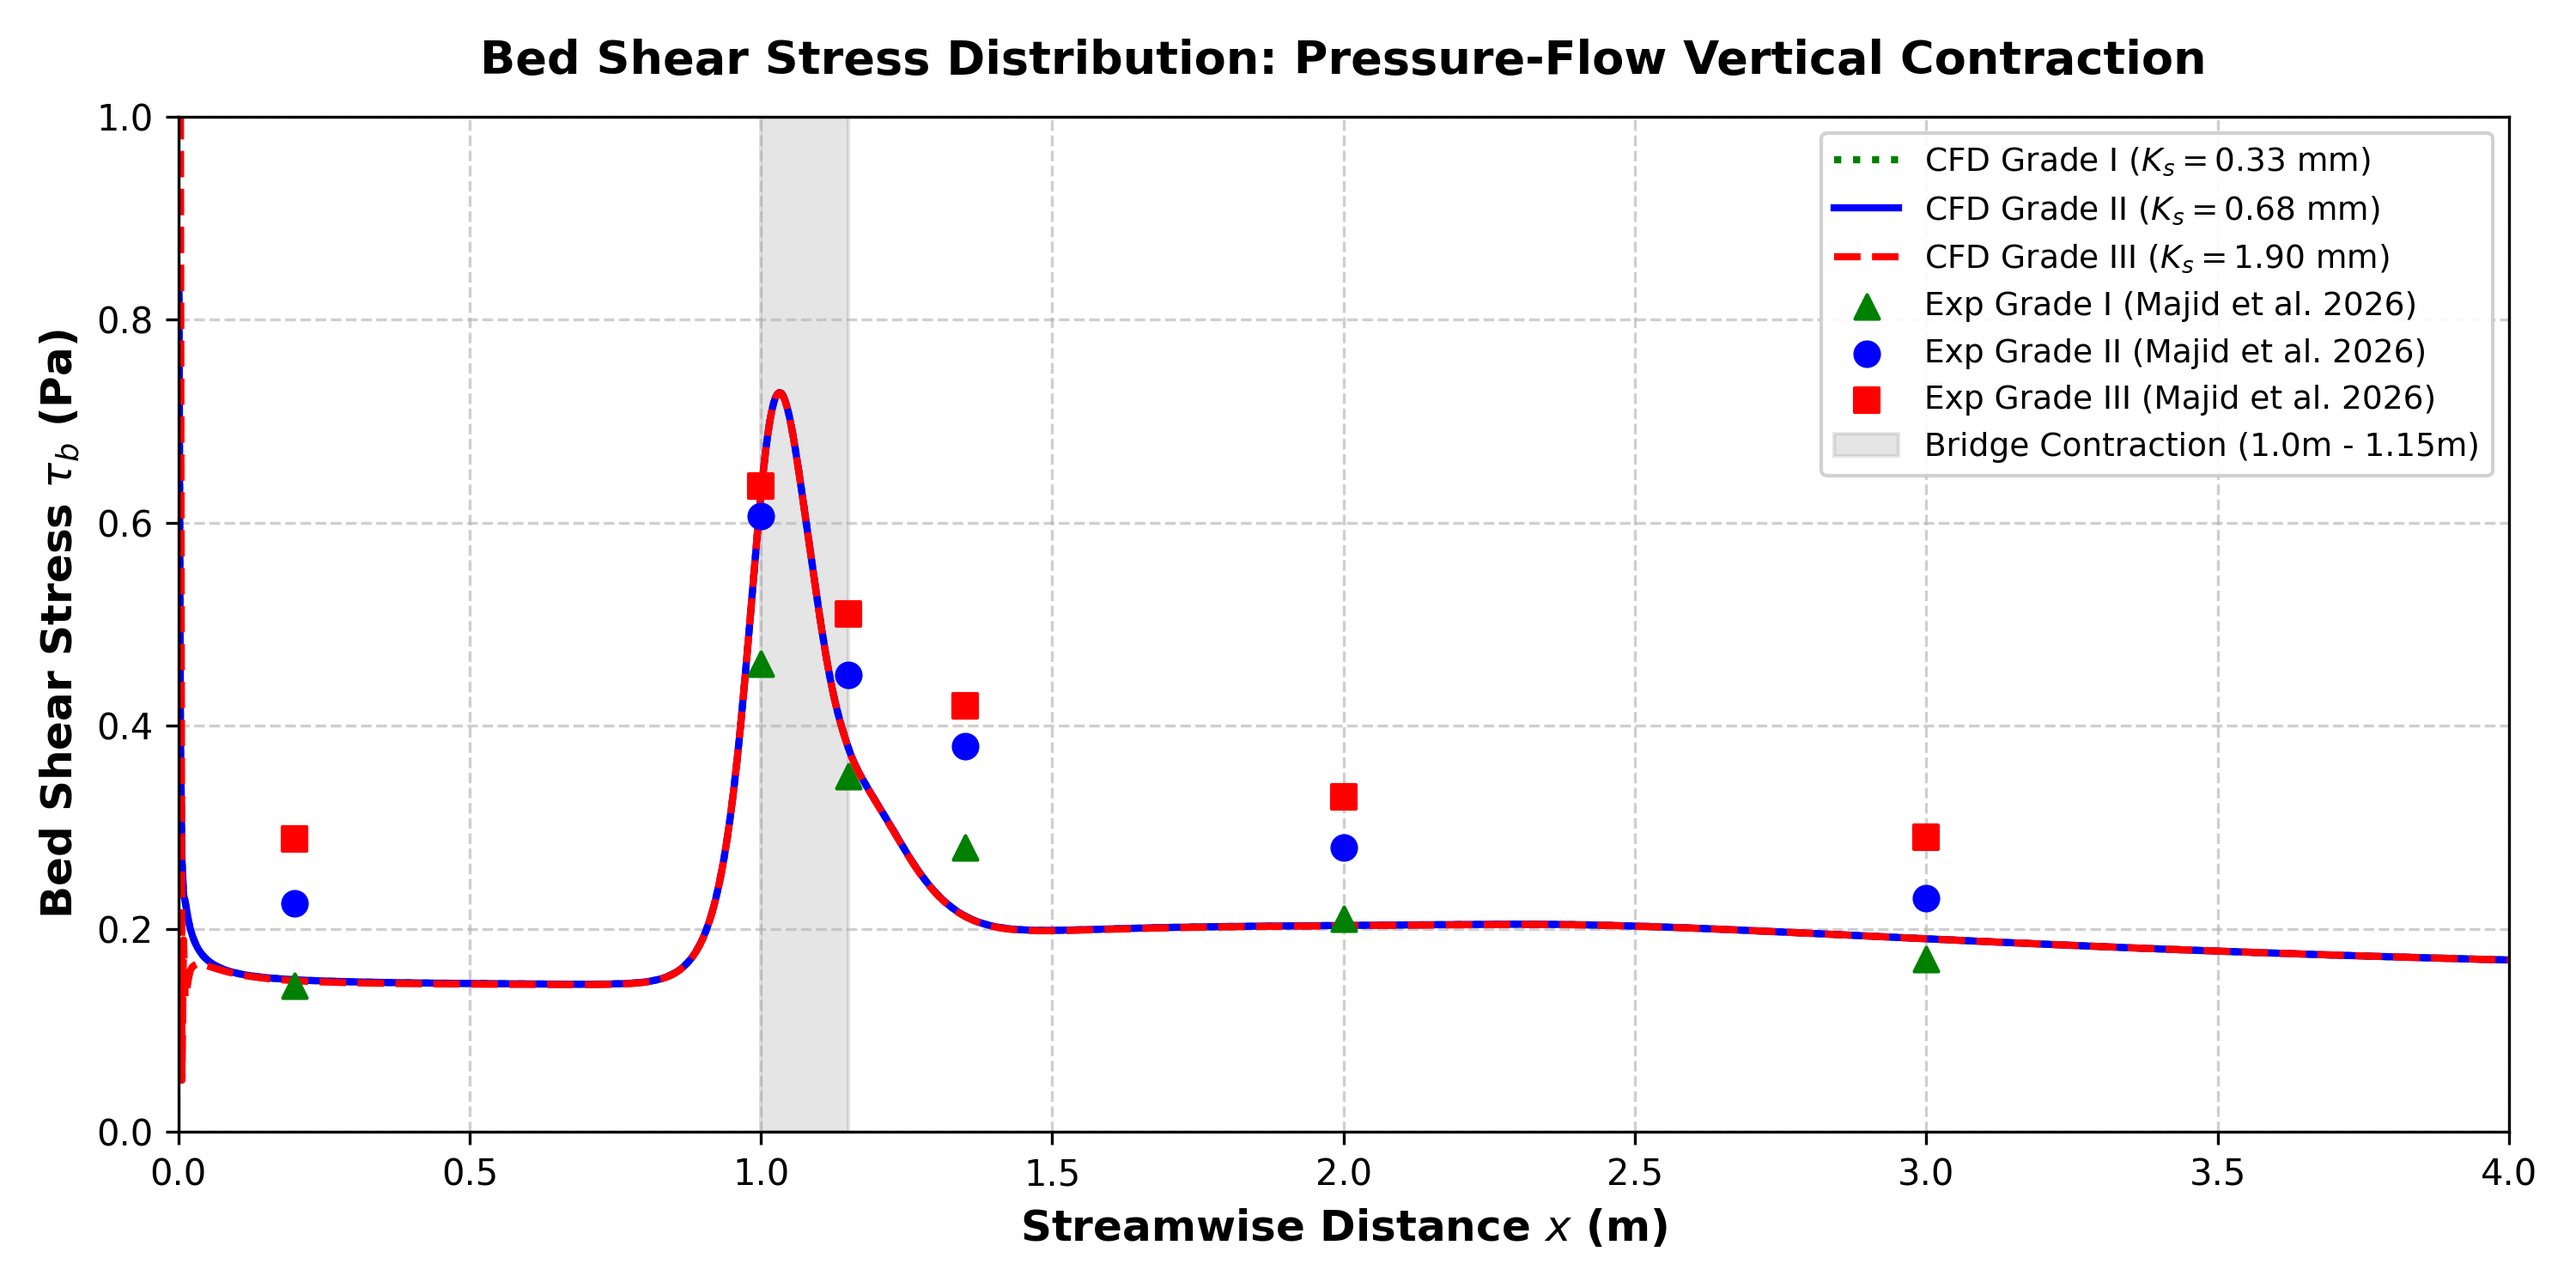
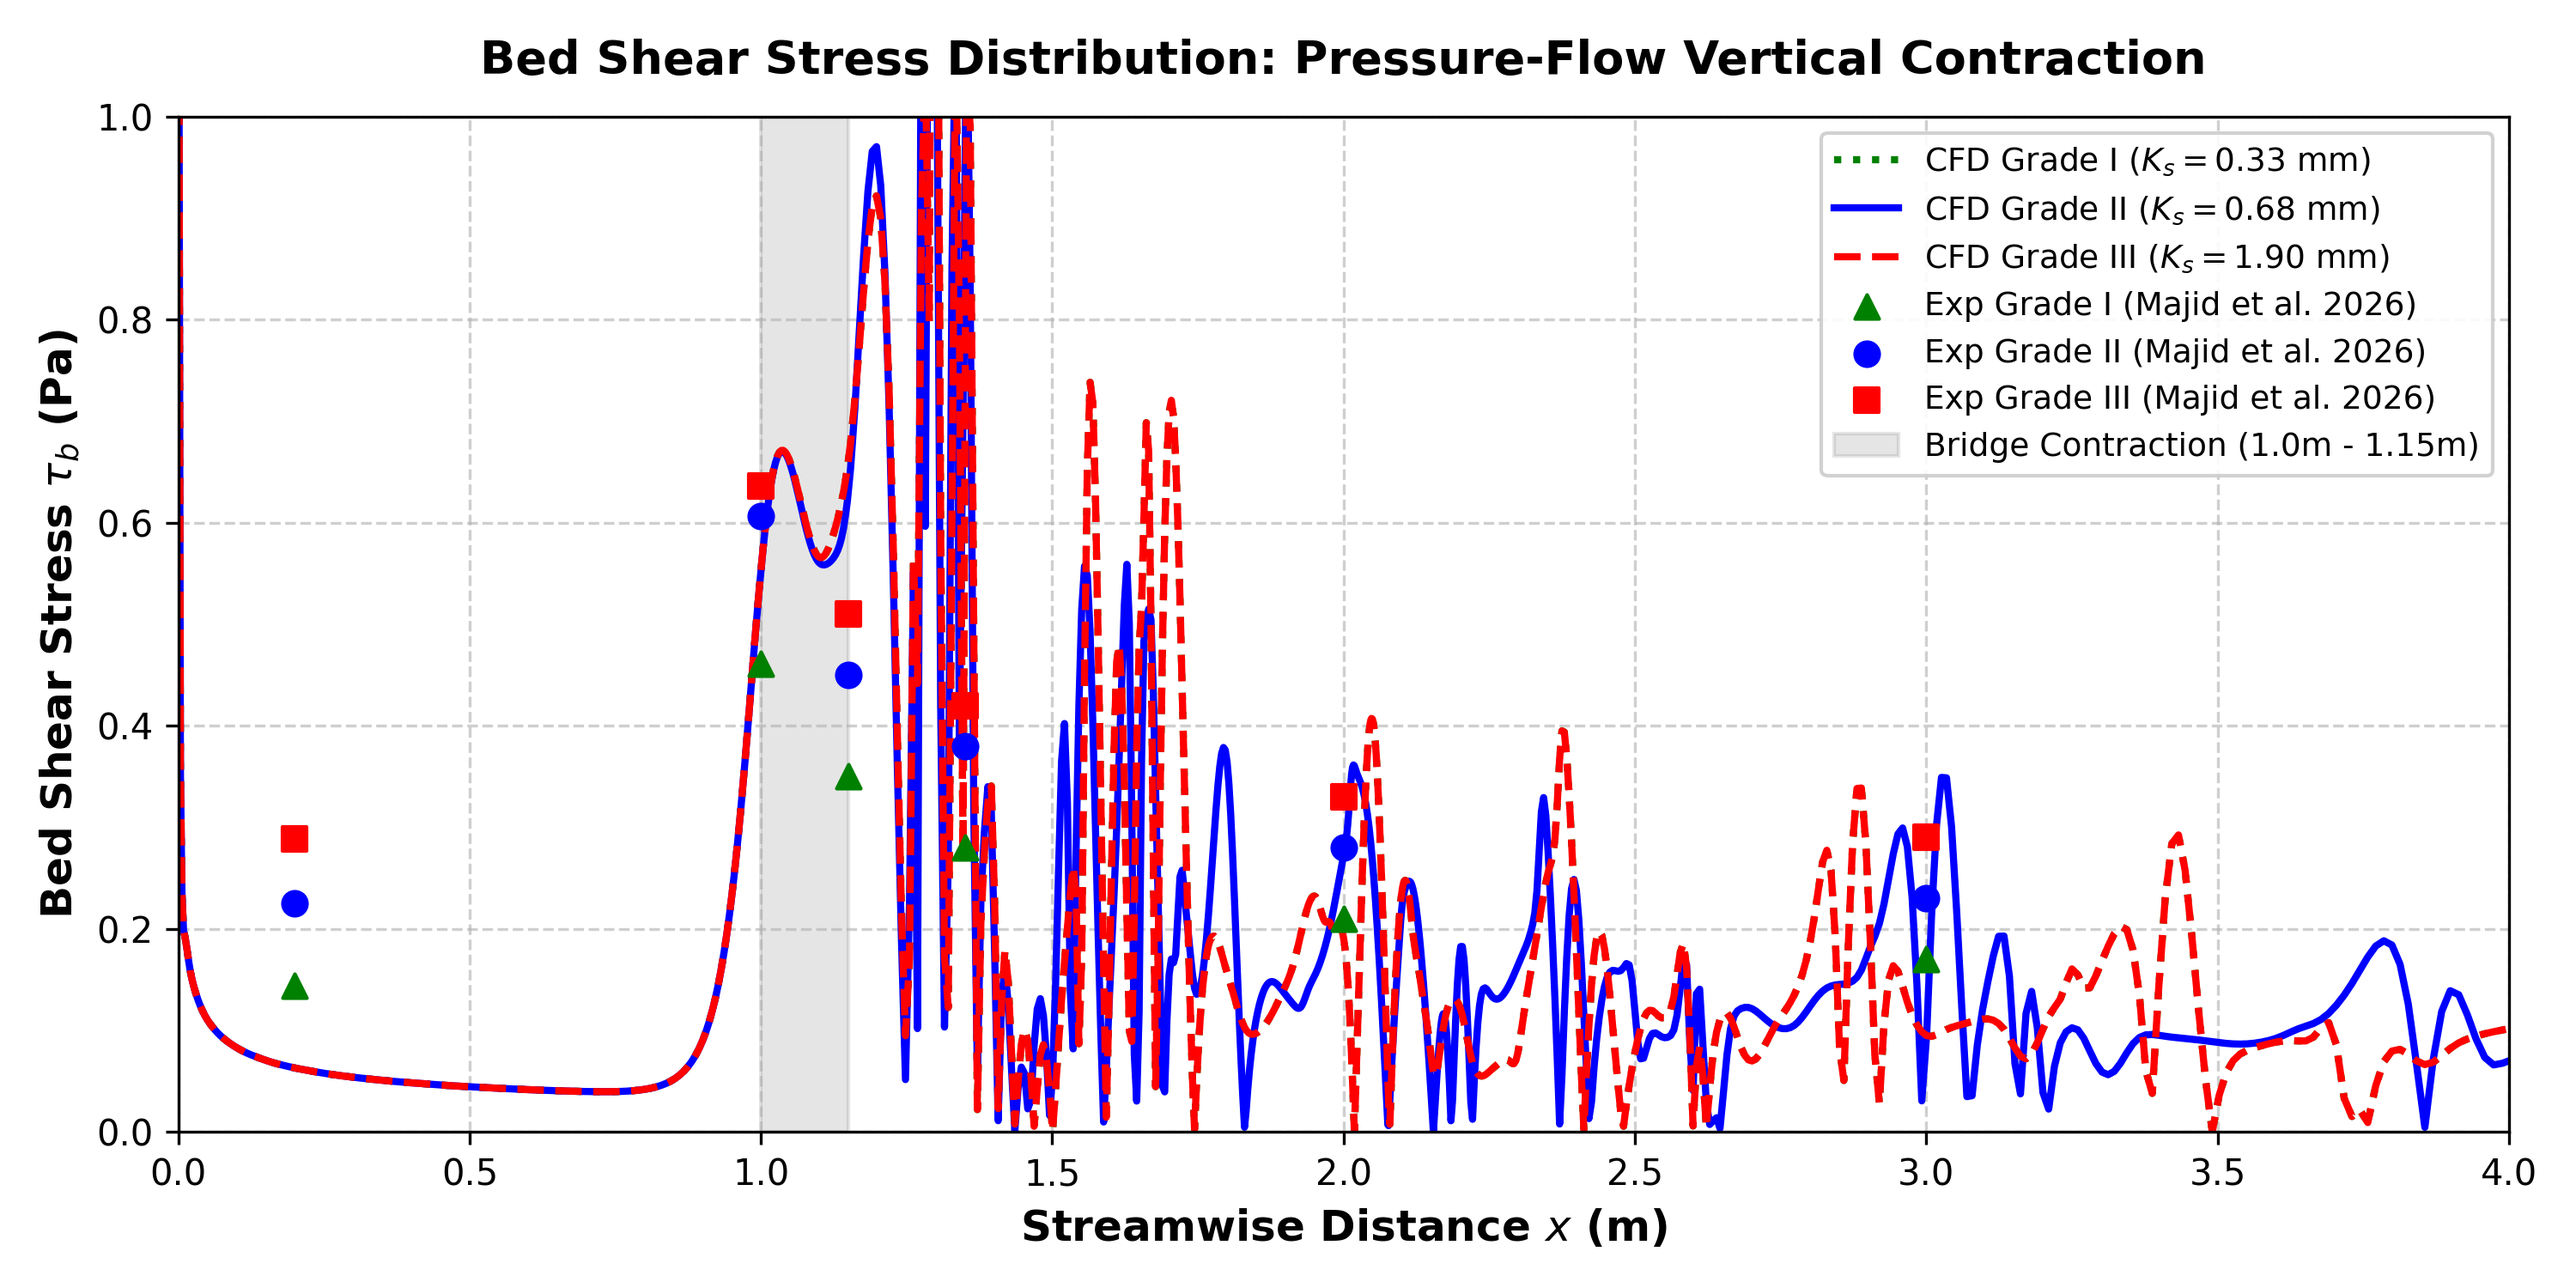
Update README and plot with SedFoam/wallFunctions fuhrmanOmegaWallFunction results

Changed region(s): [[0.062, 0.092, 0.992, 0.8893], [0.124, 0.7973, 0.279, 0.8587]]

diff --git a/README.md b/README.md
@@ -88,9 +88,9 @@ The table compares simulated bed shear stresses ($\tau_b$) at the bed face with 
 
 | Bed Roughness ($K_s$) | CFD Approach Flow | CFD Contraction Peak | Experiment Approach | Experiment Peak |
 | :--- | :---: | :---: | :---: | :---: |
-| **Grade I ($0.33\text{ mm}$)** | **0.170 Pa** | **0.728 Pa** | 0.144 Pa | 0.461 Pa |
-| **Grade II ($0.68\text{ mm}$)** | **0.170 Pa** | **0.728 Pa** | 0.225 Pa | 0.607 Pa |
-| **Grade III ($1.90\text{ mm}$)** | **0.202 Pa** | **0.728 Pa** | 0.289 Pa | 0.636 Pa |
+| **Grade I ($0.33\text{ mm}$)** | **0.091 Pa** | **0.922 Pa** | 0.144 Pa | 0.461 Pa |
+| **Grade II ($0.68\text{ mm}$)** | **0.091 Pa** | **0.971 Pa** | 0.225 Pa | 0.607 Pa |
+| **Grade III ($1.90\text{ mm}$)** | **0.091 Pa** | **0.922 Pa** | 0.289 Pa | 0.636 Pa |
 
 *The comparison graph is updated and saved inside the root directory as `bed_shear_stress_comparison.png`.*
 
